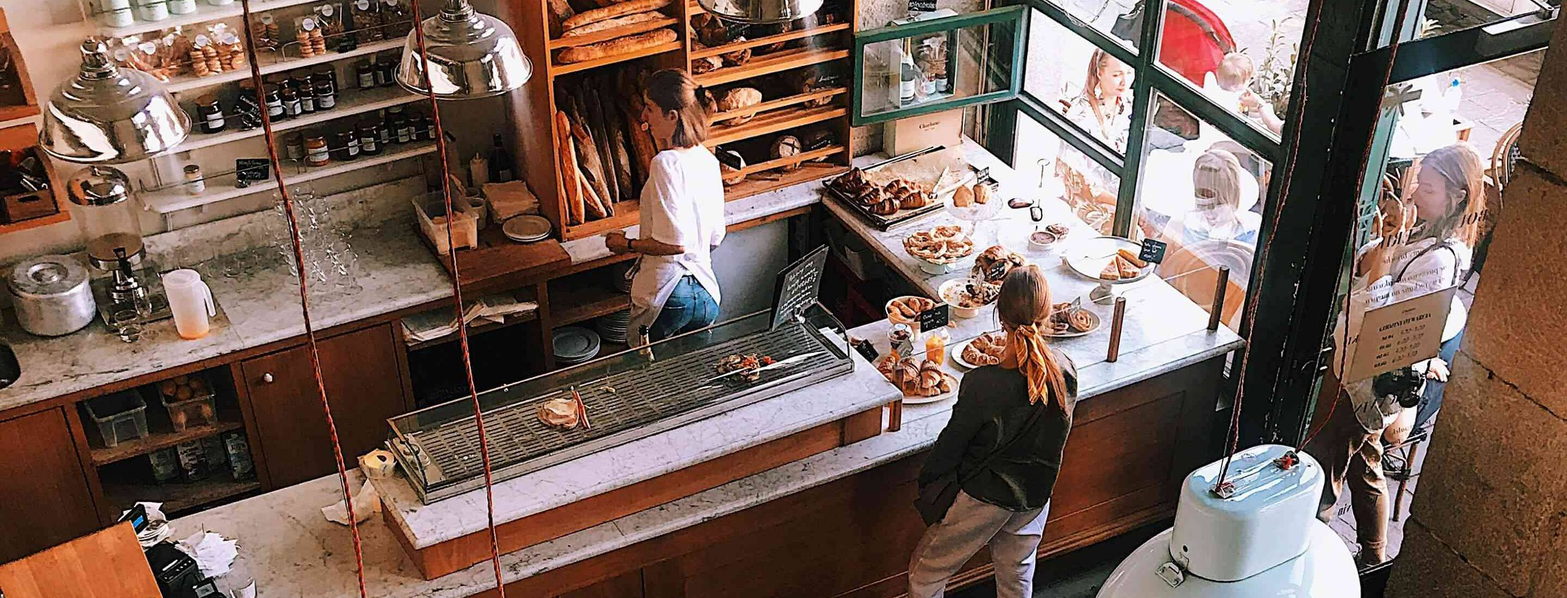
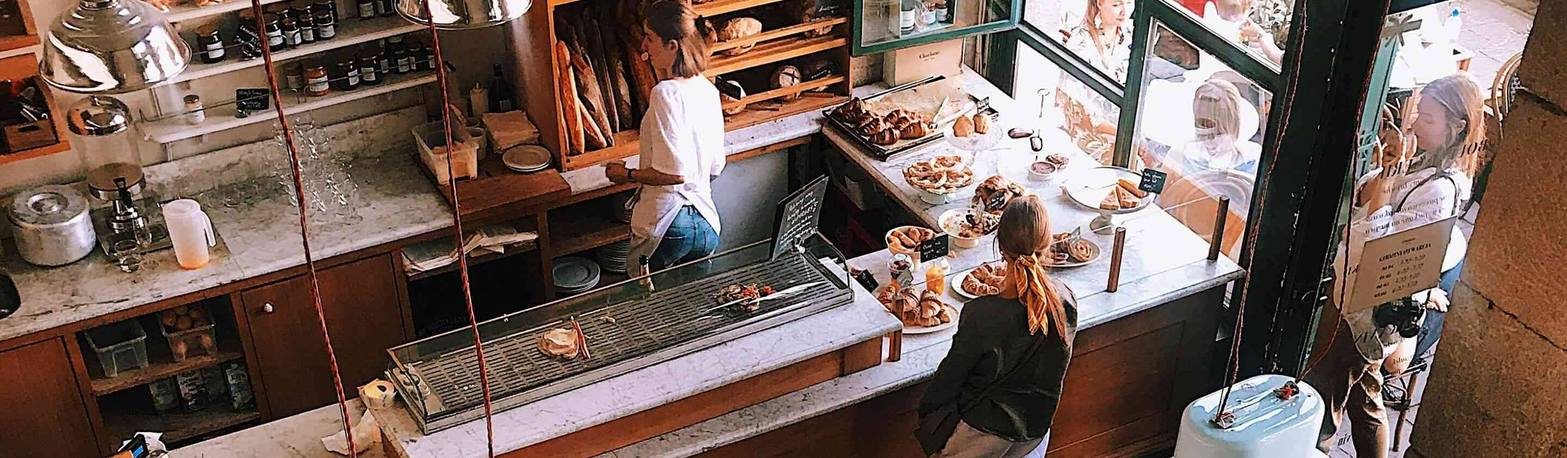
Finishes the majore design changes for desktop

diff --git a/index.html b/index.html
@@ -121,7 +121,7 @@
         </div>
      </section>
     <!-- About us section -->
-     <section id="about" class="about">
+     <section class="about">
         <img src="./images/about-us.jpeg" alt="Two baristas preparing coffee at a café counter">
         <div class="about-content">
             <p class="section-label">About Us</p>
@@ -162,7 +162,7 @@
             <div class="testimonials-image-container">
                 <picture>
                     <source 
-                        srcset="./images/testimonial-3-desktop.jpeg"
+                        srcset="./images/testimonial-2-desktop.jpeg"
                         media="(min-width: 1100px)">
 
                     <source 

diff --git a/css/main.css b/css/main.css
@@ -657,4 +657,39 @@ header {
     align-items: center;
 }
 
+/* Menue and location section*/
+/* Trying to space them to match the mockup but failing miserably instead */
+.cta-grid h2{
+    padding: 0;
+    padding-bottom: 1rem;
+    word-wrap: break-word;
+    gap: 8rem;
+}
+
+.cta-grid .section-label{
+    margin: 0;
+}
+
+.cta-content-menu, 
+.cta-content-location{
+    max-width: 350px;
+    margin: 1rem 0;
+    padding: 0;
+
+}
+
+/* About us section */
+.about{
+    margin: 0 10%;
+}
+
+/* Testimonial section */
+.testimonials h2, 
+.section-label{
+    margin: 0 10%;
+}
+
+.testimonial-list{
+    margin: 0 10%;
+}
 }
